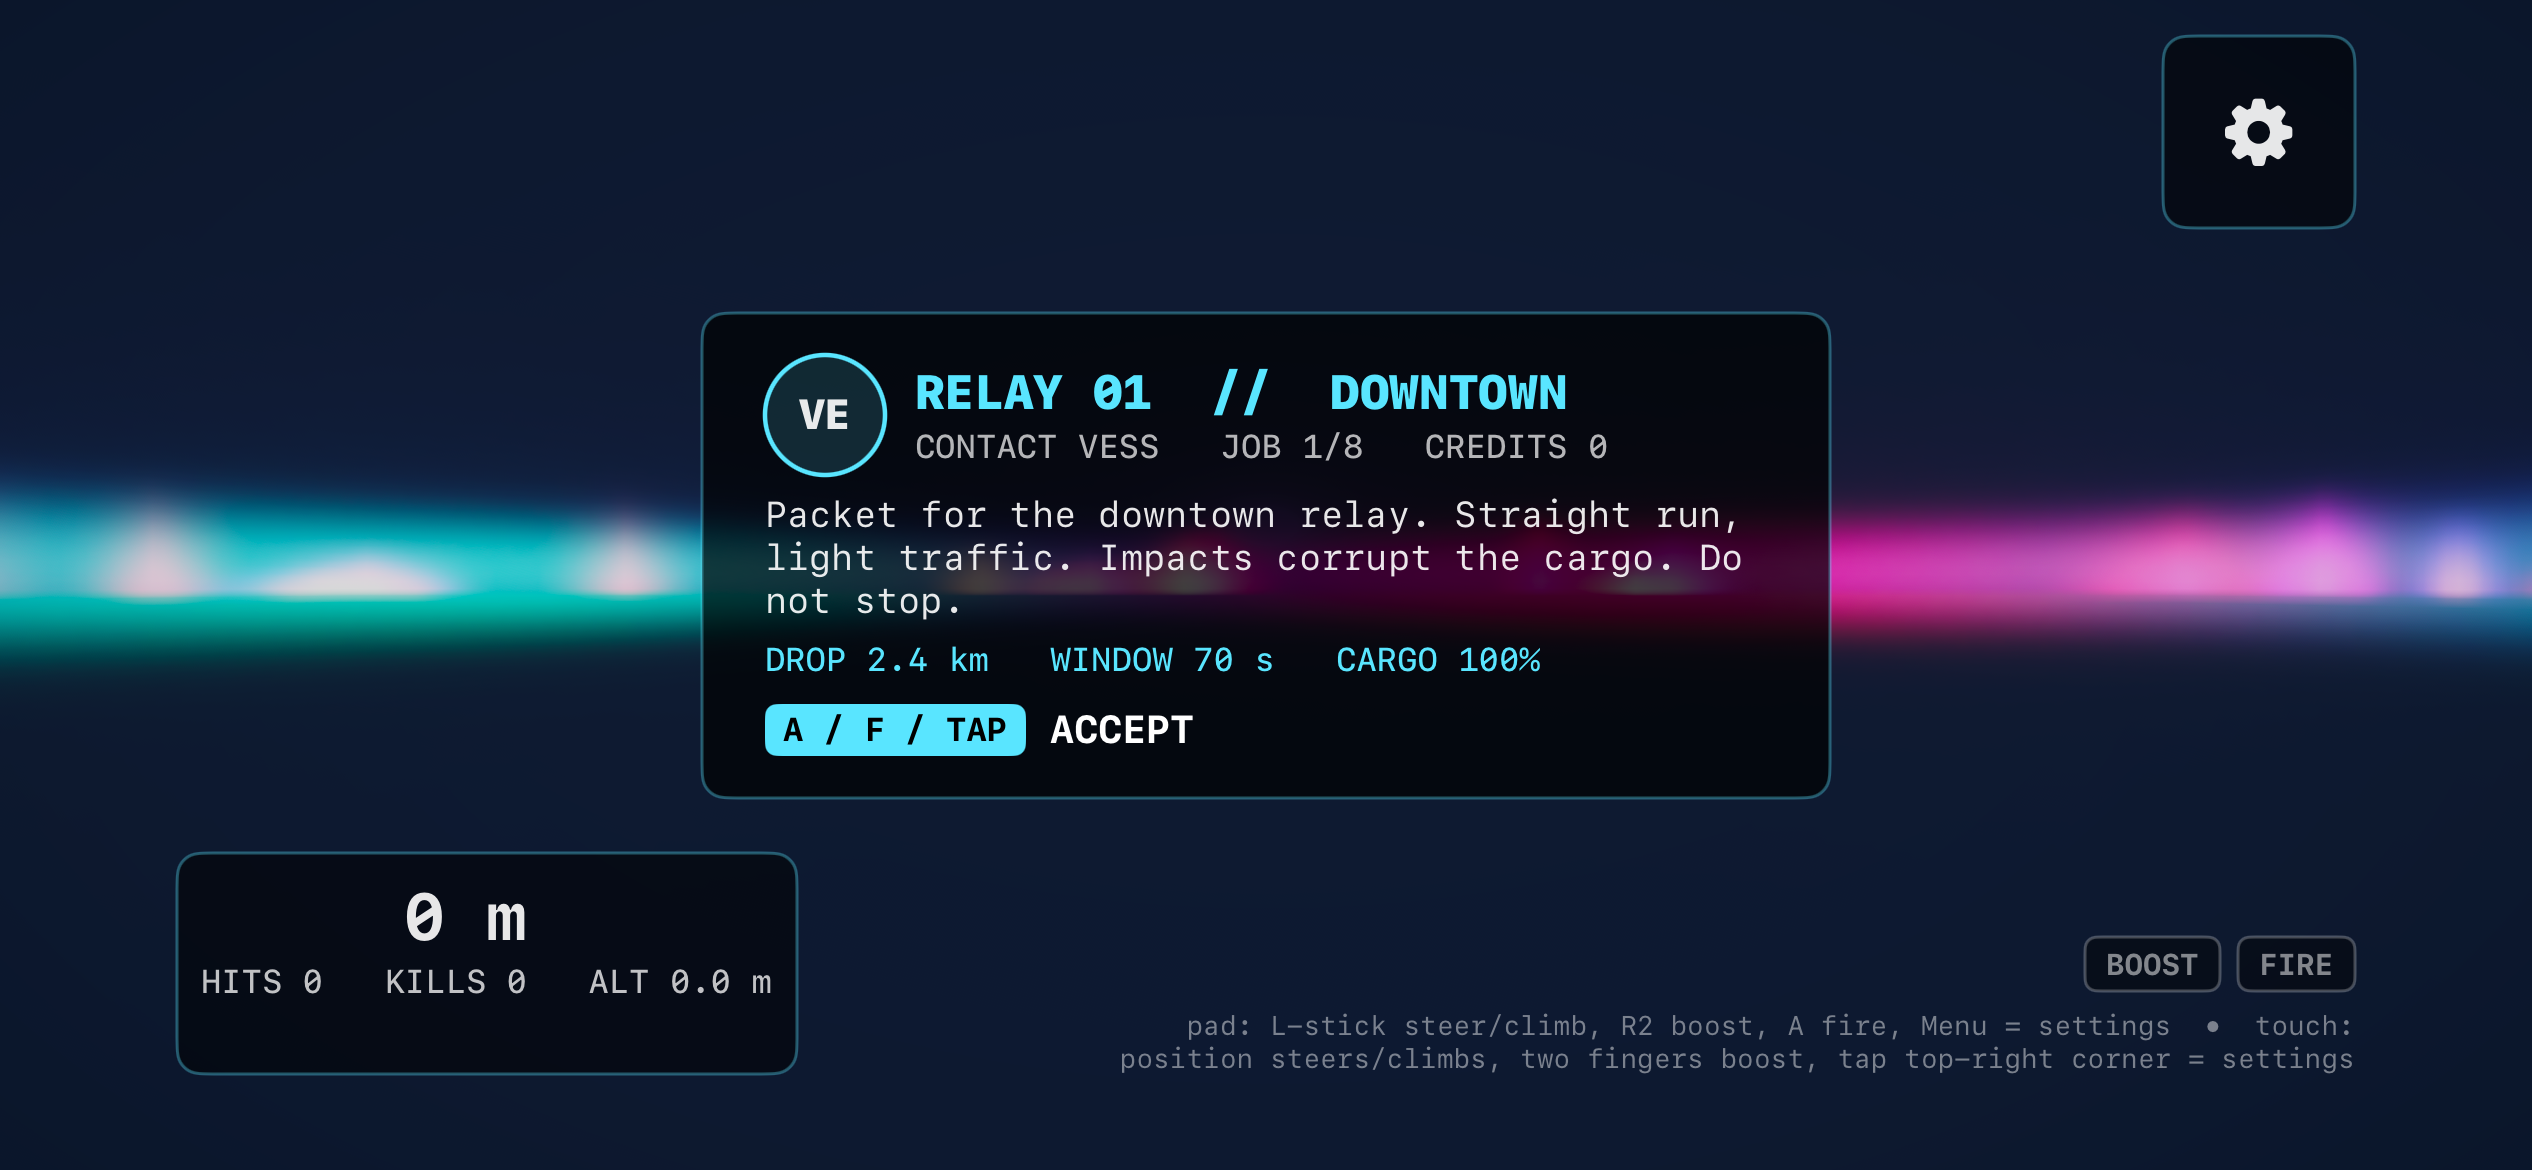
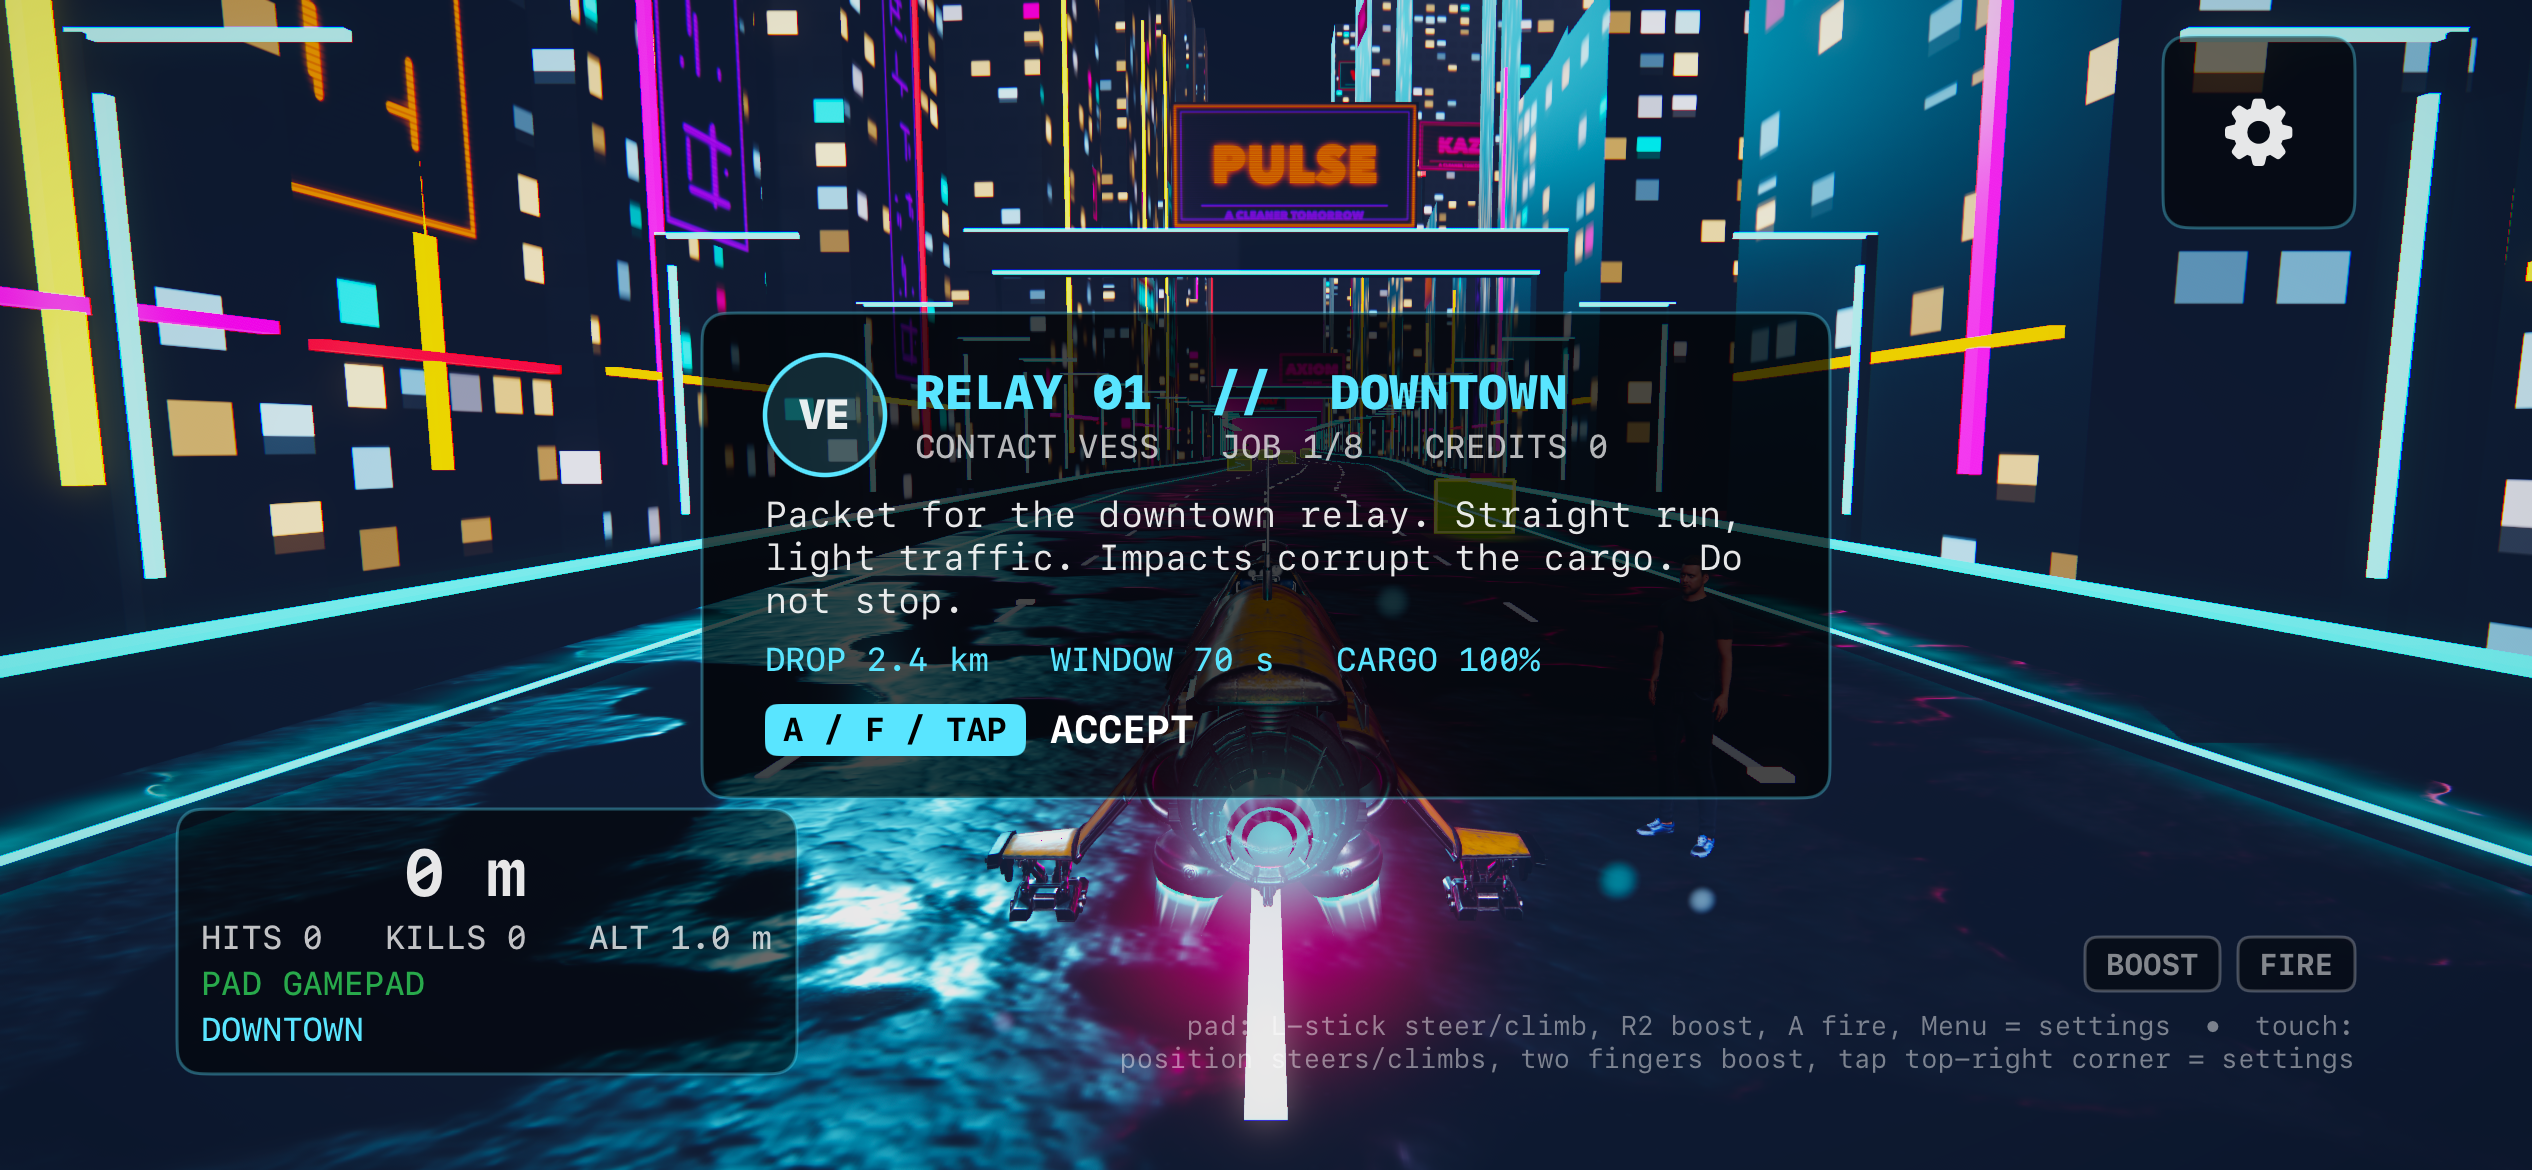
Briefing framing: camera pans left while parked, card anchored left; polish log updates

diff --git a/SpeederProto/Sources/Scene/CameraRig.swift b/SpeederProto/Sources/Scene/CameraRig.swift
@@ -55,15 +55,17 @@ final class CameraRig {
     private var y: Float = 0
     private var roll: Float = 0
 
-    func update(dt: Float, time: Float, speederX: Float, speederY: Float, bank: Float, speedNorm: Float, shake: Bool, curveAhead: Float, extraShake: Float, inTube: Float) {
+    /// `frameShift` slides the whole framing sideways (metres): the briefing uses -2.2 so the bike
+    /// and the contact sit in the right two thirds, clear of the card; it eases out on launch.
+    func update(dt: Float, time: Float, speederX: Float, speederY: Float, bank: Float, speedNorm: Float, shake: Bool, curveAhead: Float, extraShake: Float, inTube: Float, frameShift: Float = 0) {
         advanceKick(dt: dt)
-        x = damp(x, speederX * (0.5 + 0.25 * inTube), 3.5, dt)
+        x = damp(x, speederX * (0.5 + 0.25 * inTube) + frameShift, 3.5, dt)
         y = damp(y, (speederY - 1.05) * (0.85 + 0.10 * inTube), 4.0, dt)
         roll = damp(roll, bank * Self.rollGain, Self.rollDamp, dt)
         let offset = shakeOffset(time: time, speedNorm: speedNorm, shake: shake, extra: extraShake)
         let back = baseDistance - speedNorm * 0.8 + kickEnv * 0.45
         let from = SIMD3<Float>(x, baseHeight + y + speedNorm * 0.25, back) + offset
-        let target = SIMD3<Float>(speederX * 0.55 + curveAhead * 0.35, 1.0 + y * 0.9, -7)
+        let target = SIMD3<Float>(speederX * 0.55 + curveAhead * 0.35 + (x - speederX * (0.5 + 0.25 * inTube)) * 0.9, 1.0 + y * 0.9, -7)
         let up = simd_quatf(angle: roll, axis: [0, 0, 1]).act([0, 1, 0])
         root.look(at: target, from: from, upVector: up, relativeTo: nil)
         fov = damp(fov, 52 + speedNorm * Self.speedFov + kickEnv * 9, Self.fovDamp, dt)

diff --git a/SpeederProto/Sources/Scene/GameController.swift b/SpeederProto/Sources/Scene/GameController.swift
@@ -530,7 +530,8 @@ final class GameController: ObservableObject {
             cameraRig.overviewCorridor(speederX: speeder.x)
         } else {
             cameraRig.update(dt: dt, time: time, speederX: speeder.x, speederY: speeder.altitude, bank: camBank, speedNorm: speedNorm,
-                             shake: settings.cameraShake, curveAhead: curveAhead, extraShake: shakeBurst, inTube: world.tubeBlend)
+                             shake: settings.cameraShake, curveAhead: curveAhead, extraShake: shakeBurst, inTube: world.tubeBlend,
+                             frameShift: parked ? -2.2 : 0)
         }
 
         // speed particles follow the vehicle speed (none while parked)

diff --git a/SpeederProto/Sources/Views/HUDView.swift b/SpeederProto/Sources/Views/HUDView.swift
@@ -221,7 +221,8 @@ struct HUDView: View {
             .padding(6)
             .frame(width: 360)
             .hudPanel(opacity: 0.7)
-            .frame(maxWidth: .infinity, maxHeight: .infinity)
+            .padding(.leading, 40)
+            .frame(maxWidth: .infinity, maxHeight: .infinity, alignment: .leading)
             .contentShape(Rectangle())
             .onTapGesture { controller.acceptMission() }
     }

diff --git a/SpeederProto/docs/polish-log.md b/SpeederProto/docs/polish-log.md
@@ -10,11 +10,11 @@ app in demo mode and kills it, and scene time starts about 8 s of wall-clock aft
 | Was wrong | Changed | Capture |
 |---|---|---|
 | Entering the conduit snapped the vehicle from the flat lane limit (x up to 6.9) into the cylinder (x within ~1.9 at hover height) on one frame; leaving it snapped a high vehicle down to the 5.6 m altitude cap. | `WorldScroller.tubeBlend` eases 0 to 1 over the 24 m before the mouth and back over the last 24 m inside; `SpeederController` clamps against both constraint sets and mixes the results by the blend. The wall roll and the camera's tube gains use the same blend. | `p1/conduit/frame-4` .. `frame-5` (entry), `frame-8.5` (exit ahead) |
-| The conduit, the undercity tunnel and the skyway started at a bare segment edge: the pipe wall simply began, the tunnel walls began, the deck rails began. | `RoadSegment.buildPortals`: an entry and an exit frame per style (pipe collar + lit rim + flange + hood and pillars; tunnel arch with lit inner edge and a light pool outside; skyway gate arch). `setNeighbours` enables the entry frame when the previous segment has a different style and the exit frame when the next one does. | `p1/conduit/frame-4` (pipe mouth), `p1/fork-tunnel/frame-4.5` (tunnel arch ahead) |
+| The conduit, the undercity tunnel and the skyway started at a bare segment edge: the pipe wall simply began, the tunnel walls began, the deck rails began. | `RoadSegment.buildPortals`: an entry and an exit frame per style (pipe collar + lit rim + flange + hood and pillars; tunnel arch with lit inner edge and a light pool outside; skyway gate arch). `setNeighbours` enables the entry frame when the previous segment has a different style and the exit frame when the next one does. | `p1/conduit/frame-4` (pipe mouth), `p3/conduit-exit/frame-9` (mouth from inside), `p1/fork-tunnel/frame-4.5` (tunnel arch ahead), `p3/canyon-fork/frame-10` (canyon tunnel) |
 | No lighting change between the open city and an enclosed section. | `WorldScroller.enclosure` (0 open, 1 tunnel/conduit, 20 m lead) feeds `PostProcessor.enclosure`: fog density x2.5, fog colour darkened, the horizon glow removed and the vignette tightened, all blended over the lead-in. Neon City and Sunset Canyon in the open are untouched. | `p1/conduit/frame-5` vs `baseline/default/frame-9` |
 | The fork decided the branch on the frame the split passed the player and re-placed the fork segment (7 deg yaw) and the four branch segments (up to 9 m sideways) at once: a visible pop 30 m ahead, and the tunnel/skyway geometry appeared 40 m ahead at that moment. | Soft decision: from 30 m before the split the side is sampled from the player's x and the branch is styled then (so its mouth is 60 m out, in the fog); the road's divergence `forkBlend` ramps with distance over 24 m of travel and the fork plus downstream segments are re-placed every frame while it moves; the side locks when the split passes. Changing side before the lock ramps back. | `p2/fork-over/frame-4.5` .. `frame-6` |
 | The fork segment's building rows (built at the city's 11.5 m) overhang the branch roads, which slide 5 m + 4 m outward: the vehicle and the camera drove through lit towers right after the split. | The fork segment's `buildingGroup` is scaled 1.7x in x, so its rows stand at 19.5 m and clear both branches. | `p1/fork-skyway/frame-5.5` (before) vs `p2/fork-skyway/frame-5.5` |
-| The V divider had no collision: the vehicle passed through the wedge and the camera went inside it. | `WorldScroller.wedgeLimit`: past the nose the divider's face on the player's side is a lane limit (plus 1.3 m), so the vehicle scrapes along it with sparks and speed bleed like the roadside barrier. | `p2/fork-over/frame-5` |
+| The V divider had no collision: the vehicle passed through the wedge and the camera went inside it. | `WorldScroller.wedgeLimit`: past the nose the divider's face on the player's side is a lane limit (plus 1.3 m), so the vehicle scrapes along it with sparks and speed bleed like the roadside barrier. | `p3/fork-over/frame-5` |
 
 ## Vehicle motion and camera
 
@@ -53,6 +53,8 @@ decay in `publishAck`. The HUD's pip row and `stampOverlay` read it.
 | The contact stood at a fixed yaw and looked past the camera. | `AvatarActor.face(cameraRig.position)` every frame while the card is up. | `p1/launch/frame-0.3` |
 | Parked bike: exhaust at full rate, speed motes streaming past a stationary vehicle. | see vehicle motion above | `p1/launch/frame-0.3` |
 | Firing while parked launched bolts into the briefing. | Fire is ignored while parked. | – |
+| On the phone the centred briefing card sat on top of the bike and hid the contact behind its right edge. | While parked the camera frames 2.2 m to the left (`frameShift`, eased out on launch through the same lateral damping) and the card is anchored 40 pt from the left edge, so bike and contact fill the right two thirds. | `p3/briefing/frame-3`, `sim/briefing` |
+| The V divider's wedge core was 8 m wide and the branches diverged 5 m + 4 m, so the inner half of each branch road ran through the core. | Divider half-spread 6 -> 3 m, core 4.8 m wide, divergence 7 m + 3 m: the outer lanes clear the core and the camera stays 8 m from its face (the road still reads as splitting around a building). | `p3/fork-tunnel/frame-5.5`, `p3/fork-skyway/frame-5.5`, `p3/canyon-fork/frame-9` |
 
 ## HUD
 
